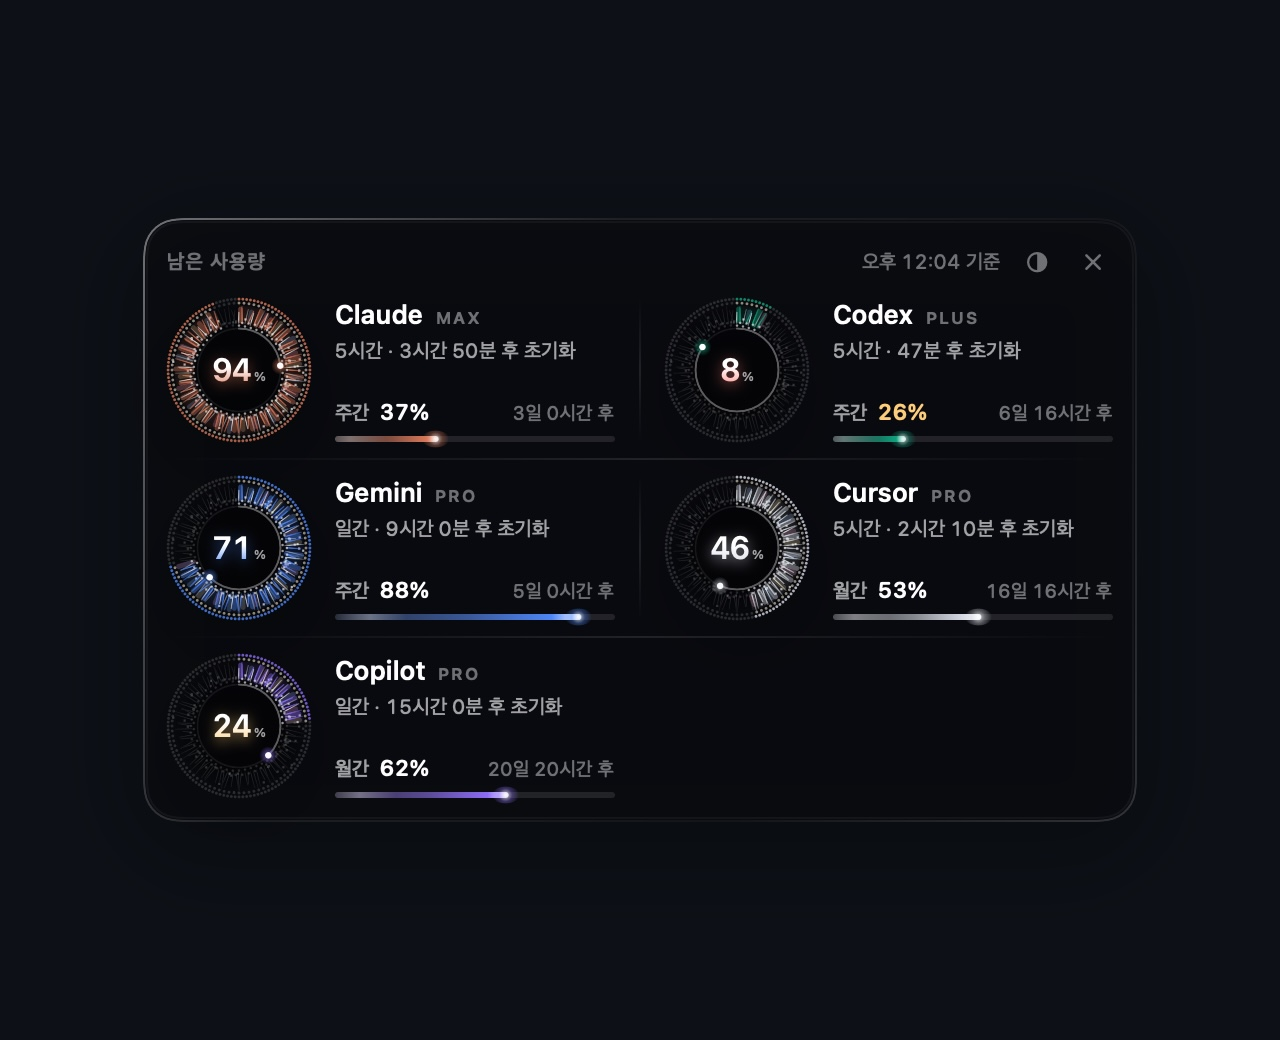
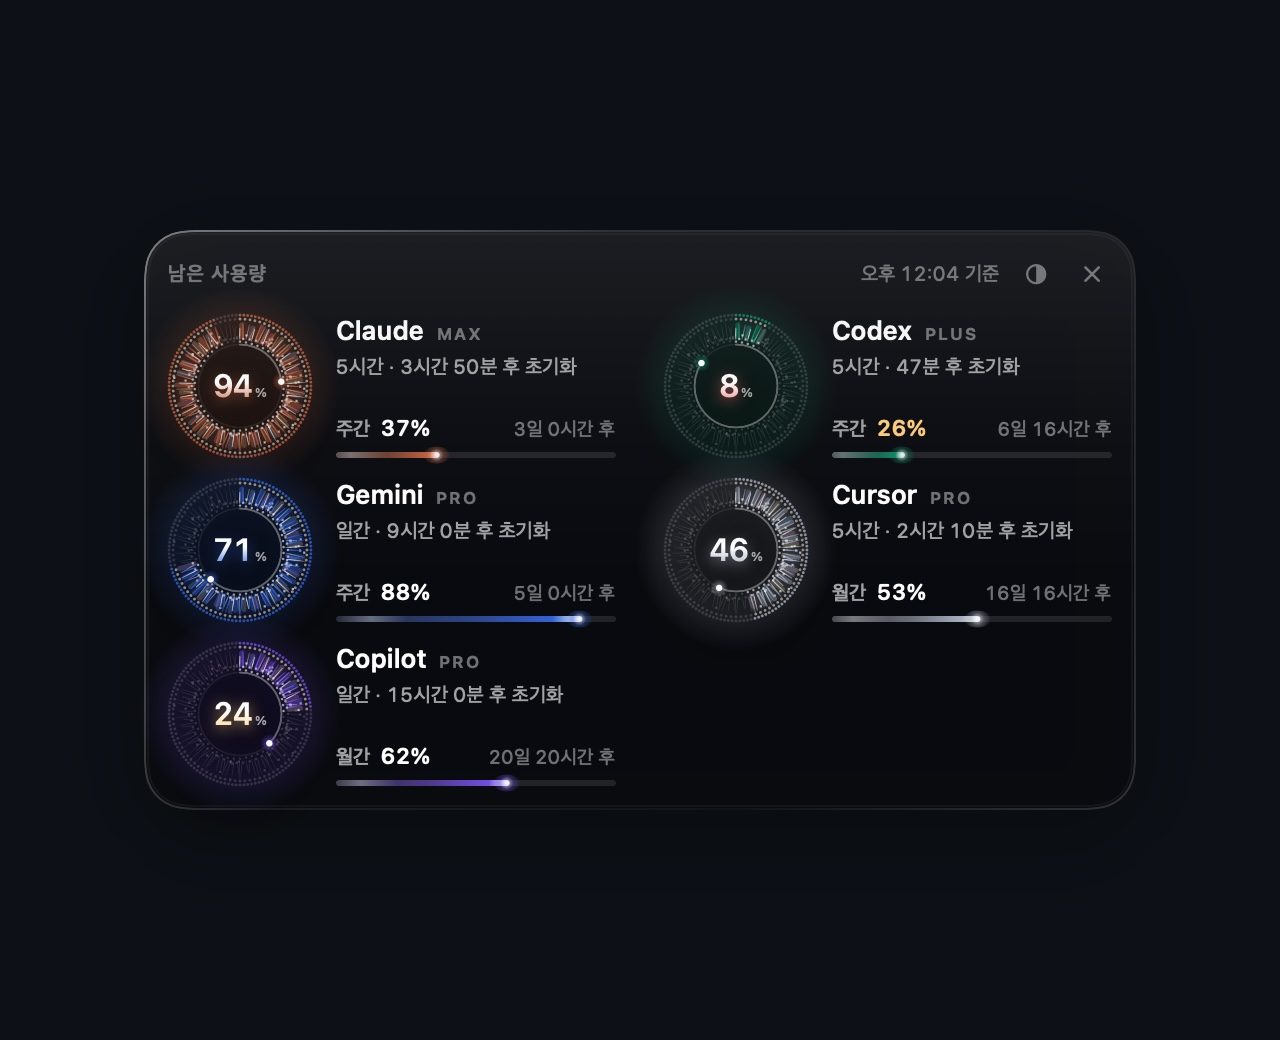
docs: 모든 AI 서비스를 앞세운 README와 네 서비스 데모
데모를 Claude·Codex·Gemini·Cursor 네 서비스로 넓히고, 소개와 기능을 사용량 CLI가 읽는
100여 개 서비스 기준으로 고쳐 쓴다.

diff --git a/Sources/PromoRenderer/Scenes.swift b/Sources/PromoRenderer/Scenes.swift
@@ -79,9 +79,10 @@ struct LevelsScene: View {
     }
 }
 
-/// README loop: values fill in, one provider drains into the warning colours, then it eases back.
+/// README loop across several tools: values fill in, two providers drain into the warning
+/// colours, then everything eases back.
 struct ReadmeScene: View {
-    static let size = CGSize(width: 720, height: 280)
+    static let size = CGSize(width: 800, height: 360)
     static let duration = 9.0
 
     let time: Double
@@ -91,13 +92,16 @@ struct ReadmeScene: View {
         let drain = Motion.progress(time, from: 3.6, to: 6.0)
         let recover = Motion.progress(time, from: 7.4, to: 8.9)
         let level = fill * (1 - recover)
+        let others = SampleData.extras(scale: level)
         let providers = [
             SampleData.claude(session: 94 * level, weekly: 37 * level),
             SampleData.codex(session: Motion.mix(62, 8, drain) * level, weekly: 26 * level),
+            others[0],
+            SampleData.cursor(session: Motion.mix(46, 22, drain) * level, weekly: 53 * level),
         ]
         ZStack(alignment: .top) {
             Backdrop()
-            MenuBarStrip(providers: providers, width: Self.size.width)
+            MenuBarStrip(providers: Array(providers.prefix(3)), width: Self.size.width)
             GaugeView(providers: providers, status: "오후 12:04 기준", now: SampleData.now, onClose: {}, opacity: .constant(1),
                       frozenAt: time)
                 .modifier(RenderedGlass())

diff --git a/Sources/PromoRenderer/SampleData.swift b/Sources/PromoRenderer/SampleData.swift
@@ -21,14 +21,18 @@ enum SampleData {
                       weekly: window(remaining: weekly, minutes: 10080, resetIn: 160 * 3600))
     }
 
+    static func cursor(session: Double, weekly: Double) -> ProviderUsage {
+        ProviderUsage(id: "cursor", plan: "Pro",
+                      session: window(remaining: session, minutes: 300, resetIn: 130 * 60),
+                      weekly: window(remaining: weekly, minutes: 43200, resetIn: 400 * 3600))
+    }
+
     static func extras(scale: Double) -> [ProviderUsage] {
         [
             ProviderUsage(id: "gemini", plan: "Pro",
                           session: window(remaining: 71 * scale, minutes: 1440, resetIn: 9 * 3600),
                           weekly: window(remaining: 88 * scale, minutes: 10080, resetIn: 120 * 3600)),
-            ProviderUsage(id: "cursor", plan: "Pro",
-                          session: window(remaining: 46 * scale, minutes: 300, resetIn: 130 * 60),
-                          weekly: window(remaining: 53 * scale, minutes: 43200, resetIn: 400 * 3600)),
+            cursor(session: 46 * scale, weekly: 53 * scale),
             ProviderUsage(id: "copilot", plan: "Pro",
                           session: window(remaining: 24 * scale, minutes: 1440, resetIn: 15 * 3600),
                           weekly: window(remaining: 62 * scale, minutes: 43200, resetIn: 500 * 3600)),

diff --git a/Sources/PromoRenderer/Backdrop.swift b/Sources/PromoRenderer/Backdrop.swift
@@ -17,6 +17,7 @@ struct RenderedGlass: ViewModifier {
         let shape = RoundedRectangle(cornerRadius: Theme.panelCornerRadius, style: .continuous)
         content
             .background(shape.fill(Theme.smoke.opacity(0.72)))
+            .overlay(GlassSheen(shape: shape))
             .overlay(GlassSlabEdge(shape: shape))
             .shadow(color: .black.opacity(0.5), radius: 24, y: 12)
     }
